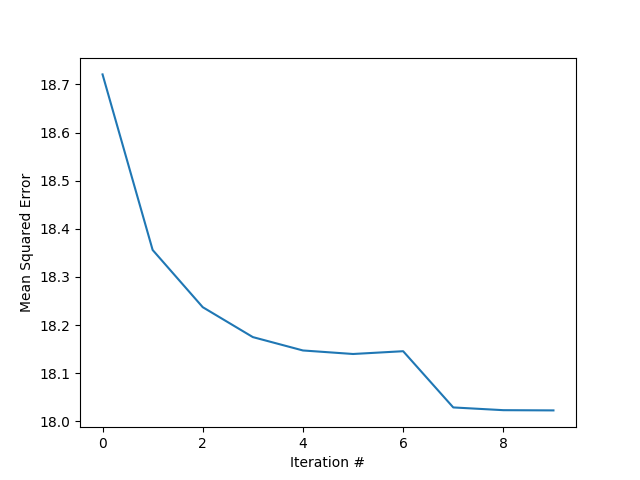
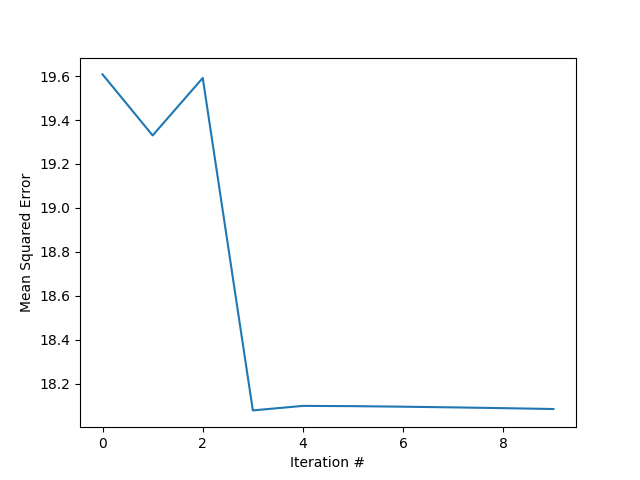
Implement Stochastic gradient descent

diff --git a/index.js b/index.js
@@ -14,7 +14,7 @@ let { features, labels, testFeatures, testLabels } = loadCSV("./cars.csv", {
 const regression = new LinearRegression(features, labels, {
   learningRate: 0.1,
   iterations: 10,
-  batchSize: 10,
+  batchSize: 1,
 });
 
 regression.train();
